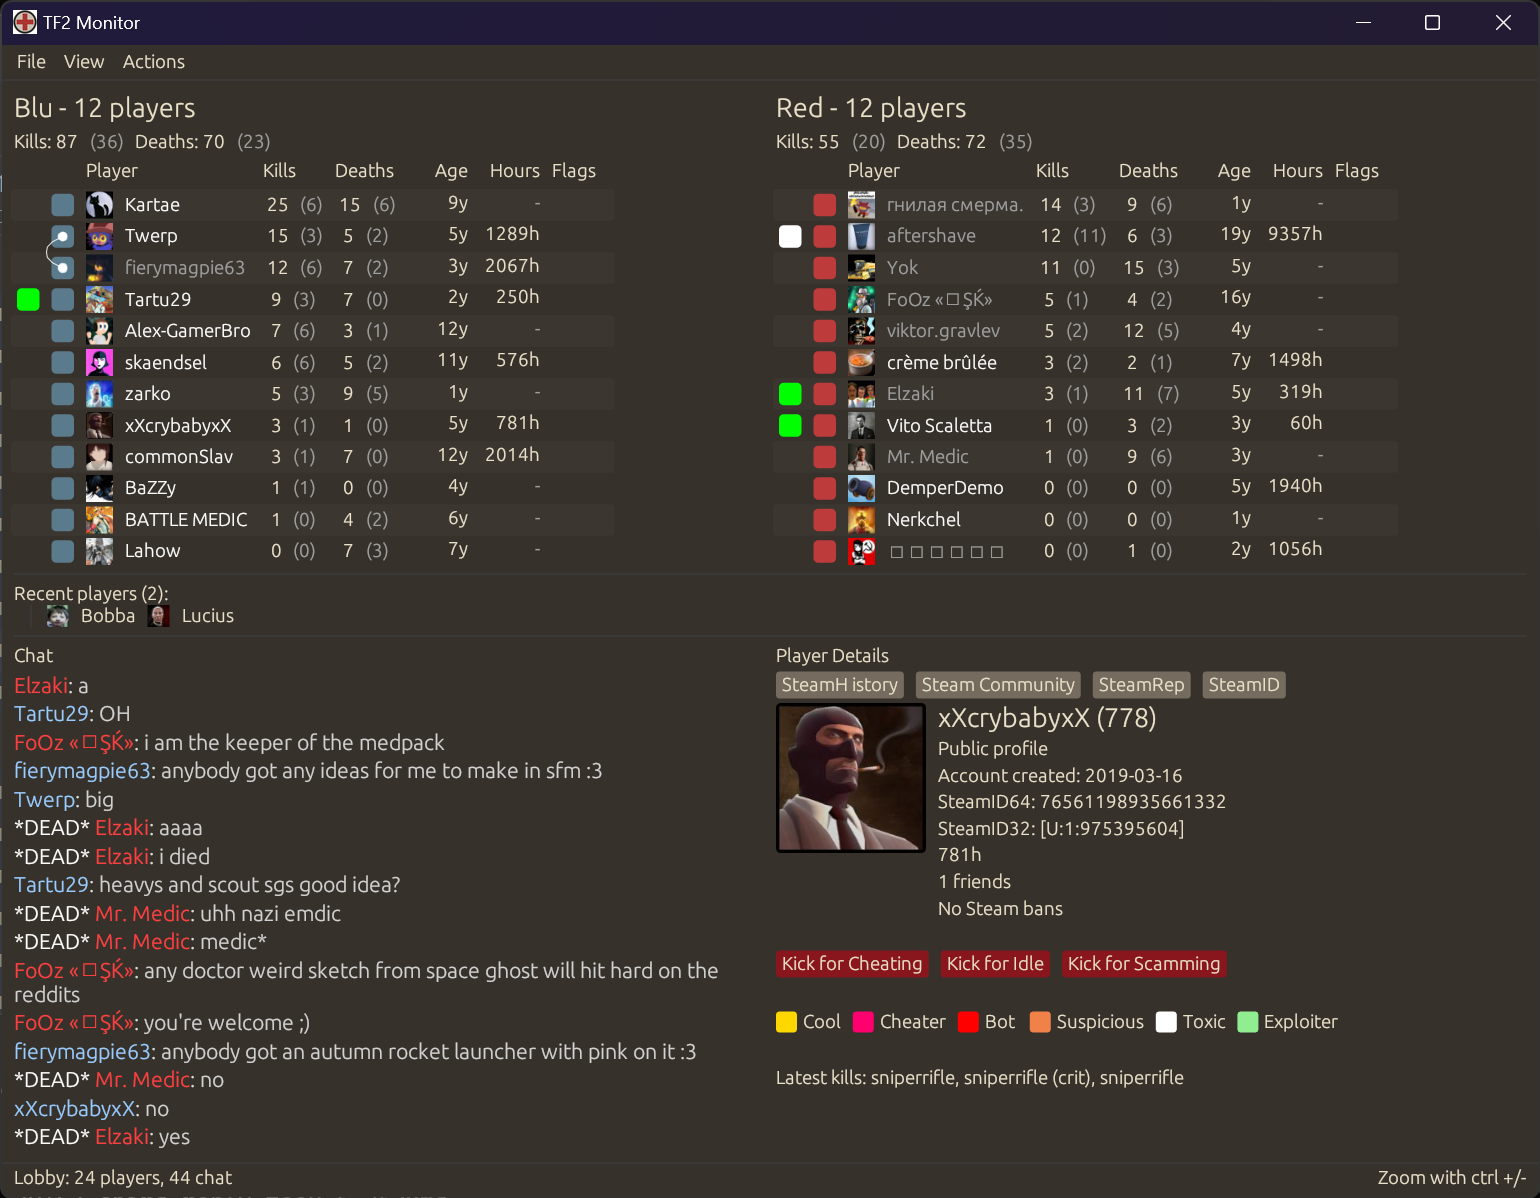
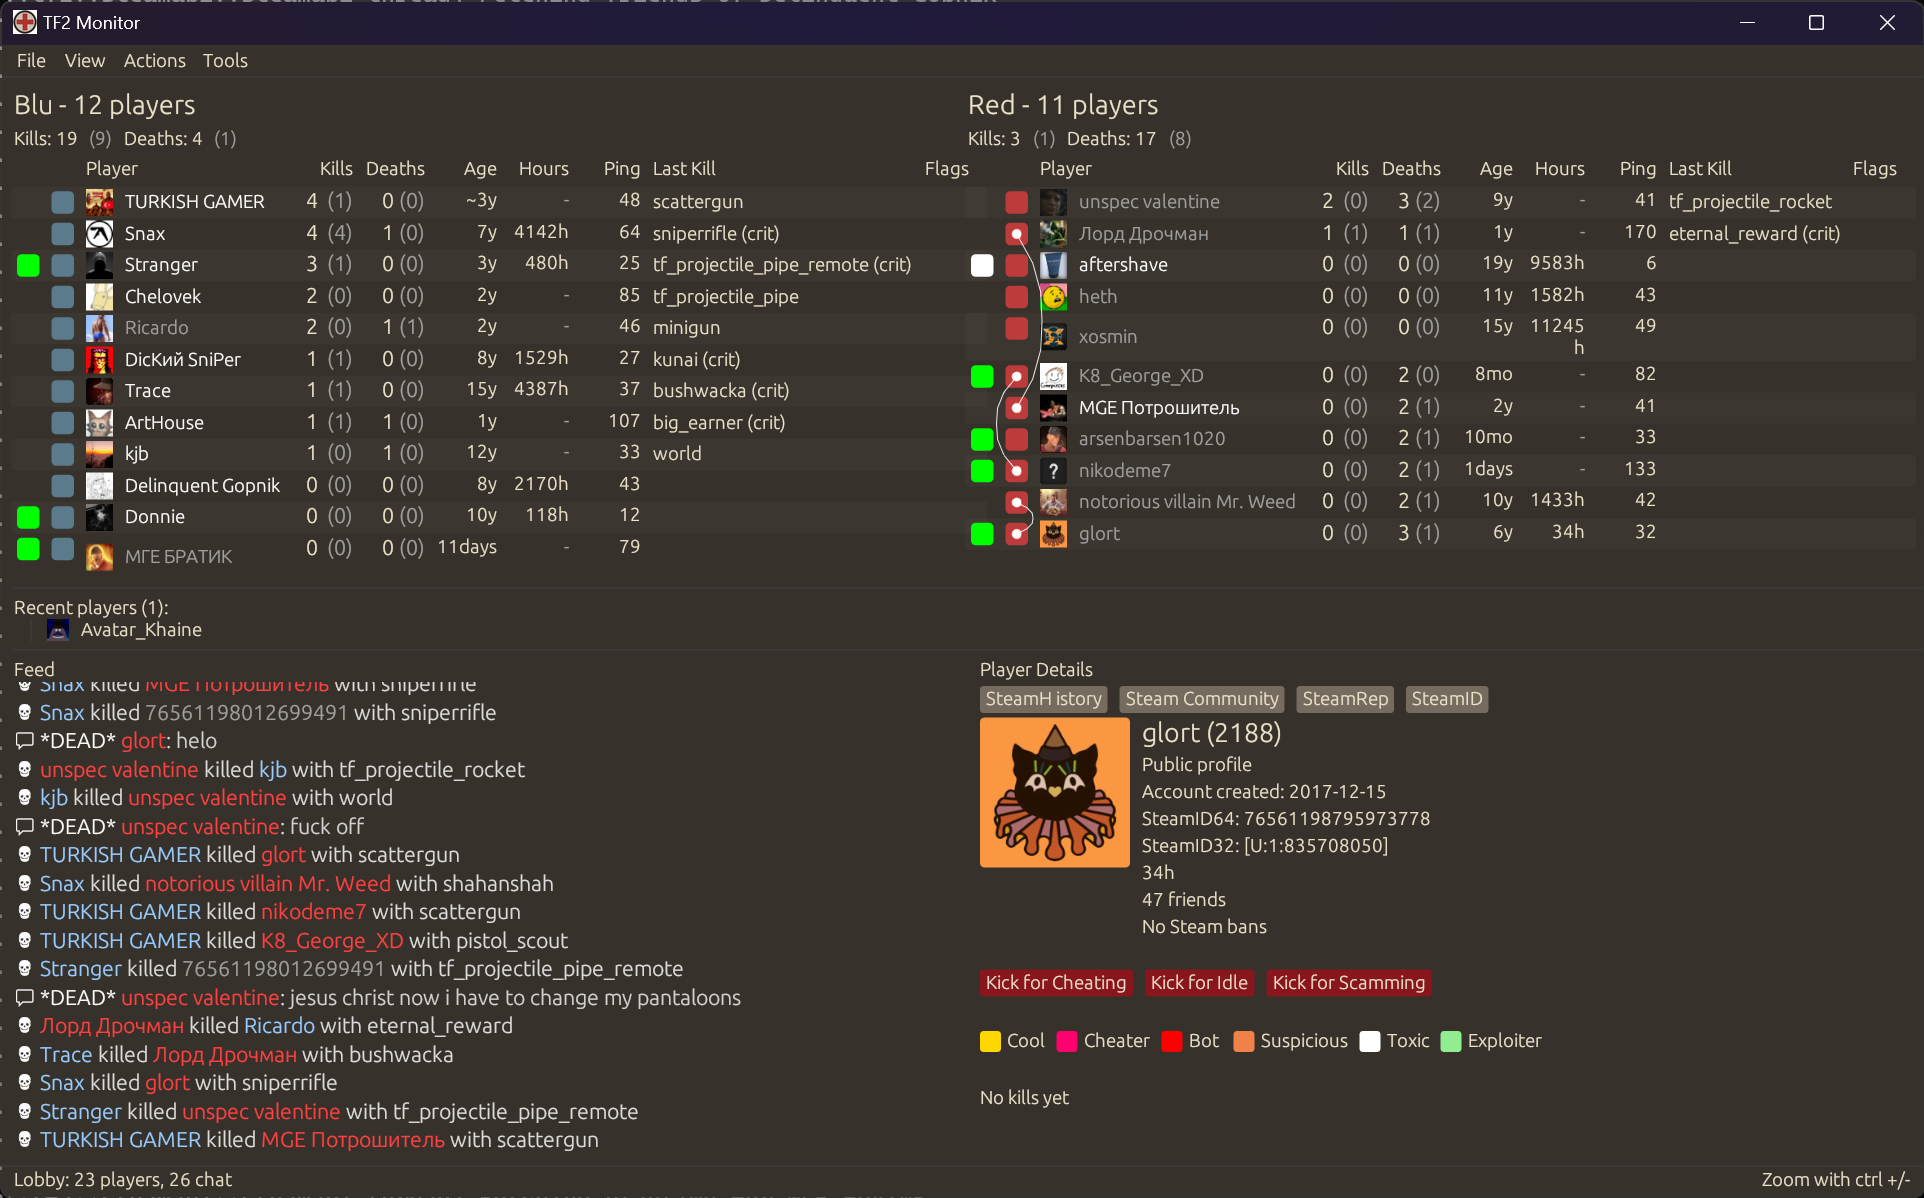
Added kills to the chat and renamed it to Feed

diff --git a/src/gui/chat.rs b/src/gui/chat.rs
@@ -3,15 +3,18 @@ use super::{
     markings::add_flags,
     player_tooltip::add_player_tooltip,
 };
-use crate::{models::AppWin, tf2::lobby::Team};
+use crate::{
+    models::AppWin,
+    tf2::lobby::{LobbyChat, LobbyFeedItem, LobbyKill, Team},
+};
 use eframe::egui::{text::LayoutJob, Color32, ScrollArea, TextFormat, TextStyle, Ui};
 
 pub fn add_chat(ui: &mut Ui, app_win: &mut AppWin) {
-    ui.label("Chat");
+    ui.label("Feed");
 
     let text_style = TextStyle::Body;
     let row_height = ui.text_style_height(&text_style);
-    let num_rows = app_win.lobby.chat.len();
+    let num_rows = app_win.lobby.feed.len();
 
     ScrollArea::vertical()
         .stick_to_bottom(true)
@@ -21,15 +24,22 @@ pub fn add_chat(ui: &mut Ui, app_win: &mut AppWin) {
                 ui.style_mut().visuals.panel_fill = hexrgb(0xffffff);
 
                 for row in row_range {
-                    add_chat_row(ui, app_win, row);
+                    add_feed_row(ui, app_win, row);
                 }
             });
         });
 }
 
-fn add_chat_row(ui: &mut Ui, app_win: &mut AppWin, row: usize) {
+fn add_feed_row(ui: &mut Ui, app_win: &mut AppWin, row: usize) {
+    let feed_row = &app_win.lobby.feed[row].clone();
+    match feed_row {
+        LobbyFeedItem::Chat(lobby_chat) => add_chat_row(ui, app_win, lobby_chat),
+        LobbyFeedItem::Kill(lobby_kill) => add_kill_row(ui, app_win, lobby_kill),
+    }
+}
+
+fn add_chat_row(ui: &mut Ui, app_win: &mut AppWin, chat_row: &LobbyChat) {
     ui.horizontal_wrapped(|ui| {
-        let chat_row = &app_win.lobby.chat[row];
         let player = app_win.lobby.get_player(None, Some(chat_row.steamid));
 
         // In the case the player left, the name from the log file is used
@@ -51,6 +61,15 @@ fn add_chat_row(ui: &mut Ui, app_win: &mut AppWin, row: usize) {
         };
 
         let mut job = LayoutJob::default();
+
+        job.append(
+            "💬 ",
+            0.0,
+            TextFormat {
+                color: Color32::WHITE,
+                ..Default::default()
+            },
+        );
 
         // Prefix player name with *DEAD* and (TEAM) if needed
         if chat_row.dead {
@@ -117,5 +136,85 @@ fn add_chat_row(ui: &mut Ui, app_win: &mut AppWin, row: usize) {
         } else if ui.label(job).clicked() {
             app_win.set_selected_player(chat_row.steamid);
         }
+    });
+}
+
+fn add_kill_row(ui: &mut Ui, app_win: &mut AppWin, kill_row: &LobbyKill) {
+    ui.horizontal_wrapped(|ui| {
+        let killer = app_win.lobby.get_player(None, Some(kill_row.killer));
+        let victim = app_win.lobby.get_player(None, Some(kill_row.victim));
+
+        let (killer_name, killer_team) = match killer {
+            Some(player) => (&player.name, player.team),
+            None => (&format!("{}", &kill_row.killer.to_u64()), Team::Unknown),
+        };
+        let (victim_name, victim_team) = match victim {
+            Some(player) => (&player.name, player.team),
+            None => (&format!("{}", &kill_row.victim.to_u64()), Team::Unknown),
+        };
+
+        let killer_color = match killer_team {
+            Team::Blue => CHAT_BLU_COLOR,
+            Team::Red => CHAT_RED_COLOR,
+            _ => Color32::GRAY,
+        };
+        let victim_color = match victim_team {
+            Team::Blue => CHAT_BLU_COLOR,
+            Team::Red => CHAT_RED_COLOR,
+            _ => Color32::GRAY,
+        };
+
+        let mut job = LayoutJob::default();
+
+        // Uniceode skulls: "☠💀🕱"
+
+        job.append(
+            "💀 ",
+            0.0,
+            TextFormat {
+                color: Color32::WHITE,
+                ..Default::default()
+            },
+        );
+
+        // Killer name in team color
+        job.append(
+            killer_name,
+            0.0,
+            TextFormat {
+                color: killer_color,
+                ..Default::default()
+            },
+        );
+
+        job.append(
+            " killed ",
+            0.0,
+            TextFormat {
+                color: Color32::LIGHT_GRAY,
+                ..Default::default()
+            },
+        );
+
+        // Victim name in team color
+        job.append(
+            victim_name,
+            0.0,
+            TextFormat {
+                color: victim_color,
+                ..Default::default()
+            },
+        );
+
+        job.append(
+            format!(" with {}", kill_row.weapon).as_str(),
+            0.0,
+            TextFormat {
+                color: Color32::LIGHT_GRAY,
+                ..Default::default()
+            },
+        );
+
+        ui.label(job)
     });
 }

diff --git a/src/tf2/lobby/lobby_thread.rs b/src/tf2/lobby/lobby_thread.rs
@@ -1,4 +1,4 @@
-use super::Lobby;
+use super::{Lobby, LobbyFeedItem, LobbyKill};
 use super::{LobbyChat, Player, PlayerKill};
 use crate::tf2::lobby::AccountAge;
 use crate::tf2::rcon::{G15DumpPlayerOutput, G15PlayerData};
@@ -237,38 +237,67 @@ impl LobbyThread {
         self.lobby.lobby_id = Local::now().format("%Y-%m-%d").to_string();
 
         self.lobby.players.clear();
-        self.lobby.chat.clear();
+        self.lobby.feed.clear();
     }
 
     fn kill(
         &mut self,
-        _when: DateTime<Local>,
-        killer: String,
-        victim: String,
+        when: DateTime<Local>,
+        killer_name: String,
+        victim_name: String,
         weapon: String,
         crit: bool,
     ) {
-        // log::info!("Kill: {} killed {} with {}", killer, victim, weapon);
-        if let Some(player) = self.lobby.get_player_mut(Some(killer.as_str()), None) {
-            player.kills += 1;
+        // Change the counts of the kill and death to the players
+        if let Some(killer) = self.lobby.get_player_mut(Some(killer_name.as_str()), None) {
+            killer.kills += 1;
             if crit {
-                player.crit_kills += 1;
+                killer.crit_kills += 1;
             }
-            player.kills_with.push(PlayerKill {
+            killer.kills_with.push(PlayerKill {
                 weapon: weapon.clone(),
                 crit,
             });
         } else {
-            log::warn!("Killer not found: '{}'", victim);
+            log::warn!("Killer not found: '{}'", victim_name);
         }
 
-        if let Some(player) = self.lobby.get_player_mut(Some(victim.as_str()), None) {
-            player.deaths += 1;
+        if let Some(victim) = self.lobby.get_player_mut(Some(victim_name.as_str()), None) {
+            victim.deaths += 1;
             if crit {
-                player.crit_deaths += 1;
+                victim.crit_deaths += 1;
             }
         } else {
-            log::warn!("Victim not found: '{}'", victim);
+            log::warn!("Victim not found: '{}'", victim_name);
+        }
+
+        // Add the kill to the feed
+        let killer = self.lobby.get_player(Some(killer_name.as_str()), None);
+        let victim = self.lobby.get_player(Some(victim_name.as_str()), None);
+
+        match (killer, victim) {
+            (Some(killer), Some(victim)) => {
+                log::info!(
+                    "Adding feed item for {} killed {} with {}",
+                    killer.name,
+                    victim.name,
+                    weapon
+                );
+                self.lobby.feed.push(LobbyFeedItem::Kill(LobbyKill {
+                    when,
+                    killer: killer.steamid,
+                    victim: victim.steamid,
+                    weapon,
+                    crit,
+                }));
+            }
+            _ => {
+                log::info!(
+                    "Killer or victim not found: '{}', '{}'",
+                    killer_name,
+                    victim_name
+                );
+            }
         }
     }
 
@@ -289,14 +318,14 @@ impl LobbyThread {
         team: bool,
     ) {
         if let Some(player) = self.lobby.get_player(Some(name.as_str()), None) {
-            self.lobby.chat.push(LobbyChat {
+            self.lobby.feed.push(LobbyFeedItem::Chat(LobbyChat {
                 when,
                 steamid: player.steamid,
                 player_name: name,
                 message,
                 dead,
                 team,
-            })
+            }))
         } else {
             log::warn!("Player not found: '{}'", name);
         }

diff --git a/src/tf2/lobby/mod.rs b/src/tf2/lobby/mod.rs
@@ -15,12 +15,27 @@ pub struct Lobby {
     pub lobby_id: String,
     pub self_steamid: SteamID,
     pub players: Vec<Player>,
-    pub chat: Vec<LobbyChat>,
+    pub feed: Vec<LobbyFeedItem>,
     pub friendships: Friendships,
 
     /// Players who no longer show up in the status command output
     /// or in tf_lobby_debug output. Players are kept in here for 1 minute.
     pub recently_left_players: Vec<Player>,
+}
+
+#[derive(Debug, Clone)]
+pub enum LobbyFeedItem {
+    Chat(LobbyChat),
+    Kill(LobbyKill),
+}
+
+#[derive(Default, Debug, Clone)]
+pub struct LobbyKill {
+    pub when: DateTime<Local>,
+    pub killer: SteamID,
+    pub victim: SteamID,
+    pub weapon: String,
+    pub crit: bool,
 }
 
 #[derive(Default, Debug, Clone)]
@@ -221,7 +236,7 @@ impl Lobby {
             lobby_id: Local::now().format("%Y-%m-%d").to_string(),
             self_steamid,
             players: Vec::new(),
-            chat: Vec::new(),
+            feed: Vec::new(),
             friendships: Friendships::default(),
             recently_left_players: Vec::new(),
         }

diff --git a/src/gui/window_status_row.rs b/src/gui/window_status_row.rs
@@ -8,7 +8,7 @@ pub fn add_status_row(app_win: &AppWin, ui: &mut Ui, _image_desc: &ImageDescript
         ui.label(format!(
             "Lobby: {} players, {} chat",
             lobby.players.len(),
-            lobby.chat.len()
+            lobby.feed.len()
         ));
 
         // ui.label("Status: Online");

diff --git a/src/gui/player_details_panel.rs b/src/gui/player_details_panel.rs
@@ -110,7 +110,7 @@ fn add_player_kills(player: &Player, ui: &mut Ui) {
         return;
     }
 
-    let kills: Vec<&PlayerKill> = player.kills_with.iter().rev().take(3).collect();
+    let kills: Vec<&PlayerKill> = player.kills_with.iter().rev().take(20).collect();
 
     let names = kills
         .iter()
